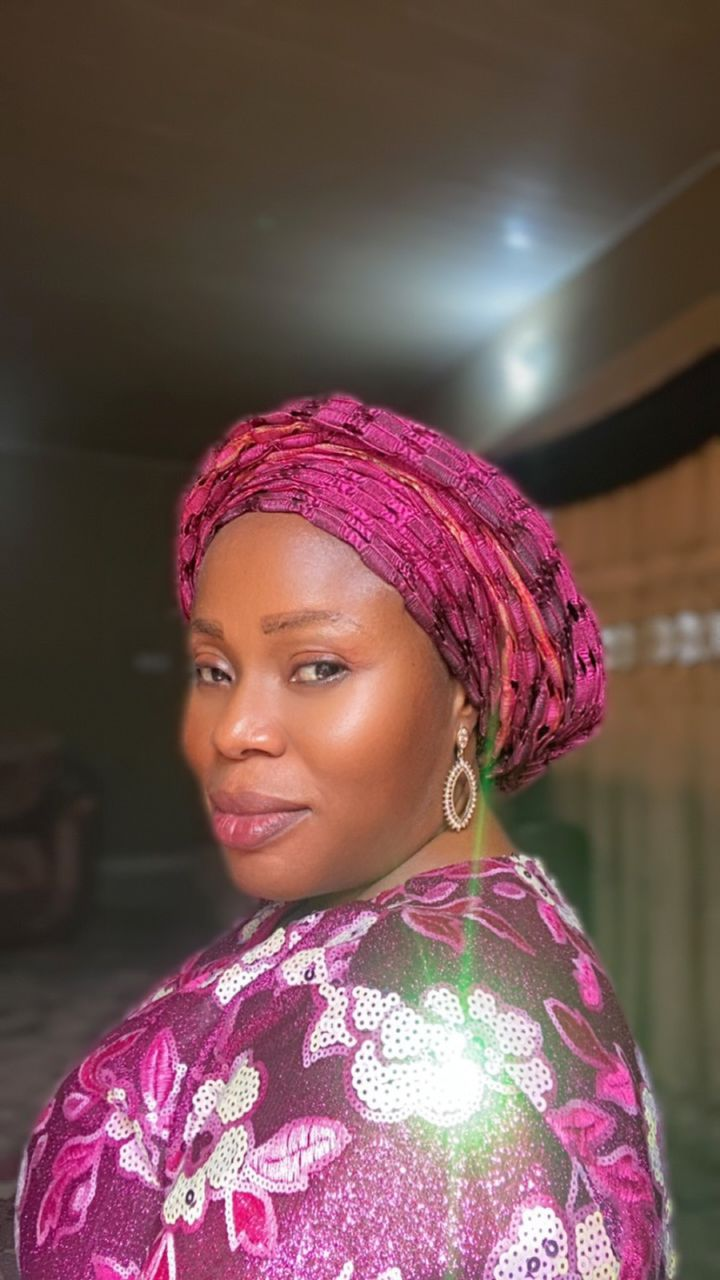
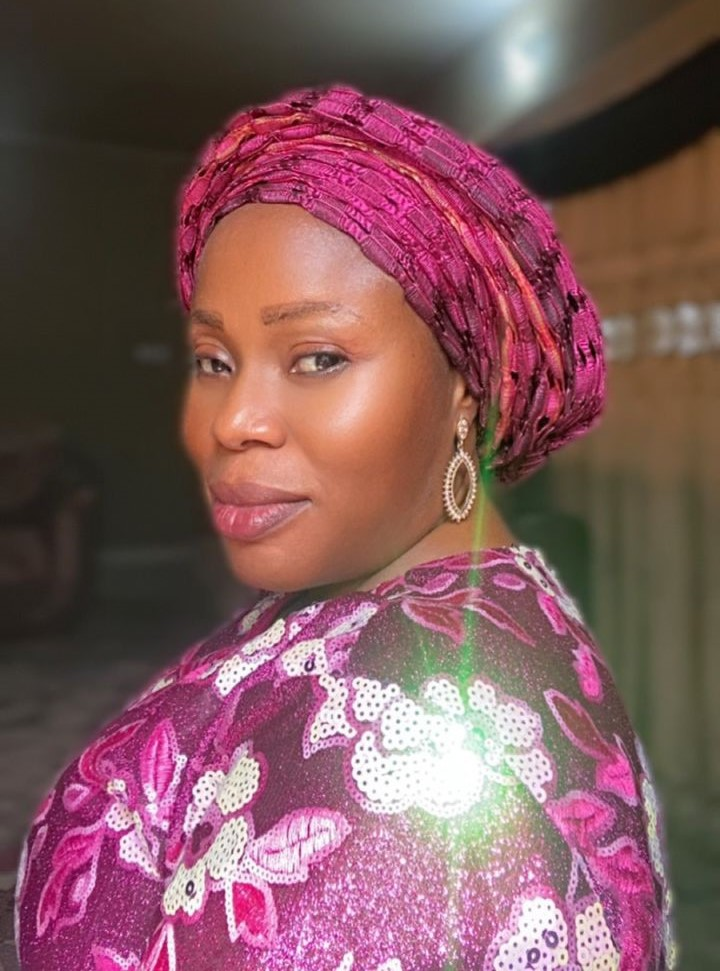
Resolve image crop

diff --git a/src/components/common/NavBar.jsx b/src/components/common/NavBar.jsx
@@ -77,12 +77,12 @@ const NavBar = () => {
               xmlns='http://www.w3.org/2000/svg'
               fill='none'
               viewBox='0 0 24 24'
-              stroke-width='2'
+              strokeWidth='2'
               stroke='currentColor'
               className='w-6 h-6'>
               <path
-                stroke-linecap='round'
-                stroke-linejoin='round'
+                strokeLinecap='round'
+                strokeLinejoin='round'
                 d='M4 6h16M4 12h16m-7 6h7'
               />
             </svg>